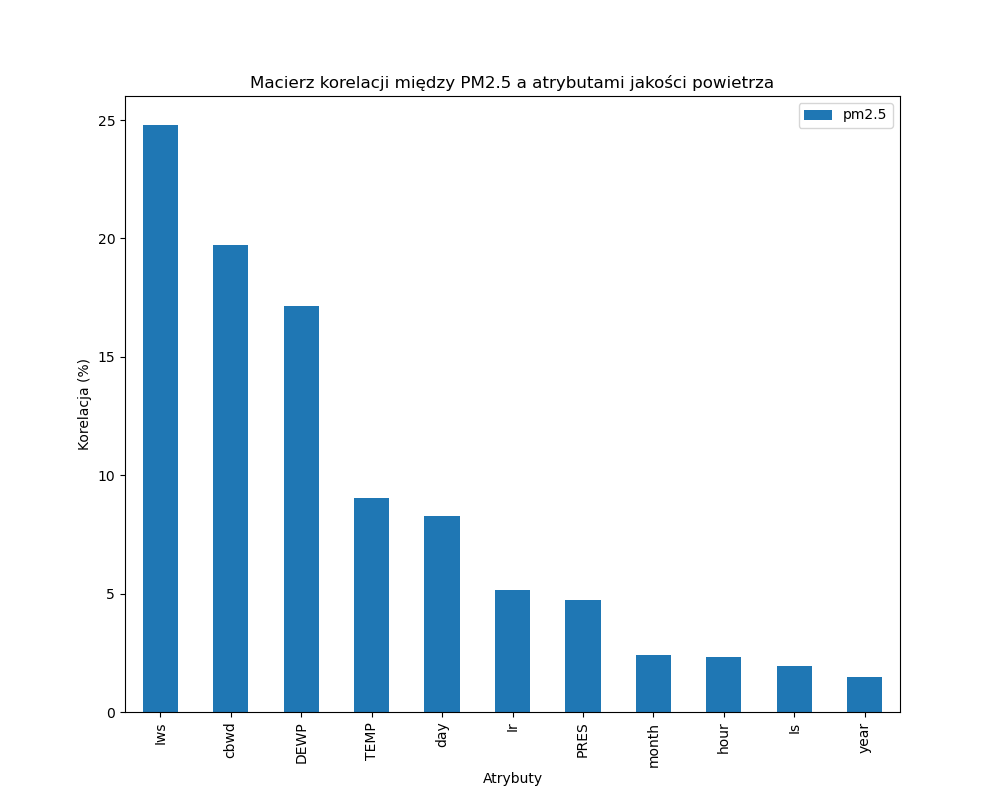
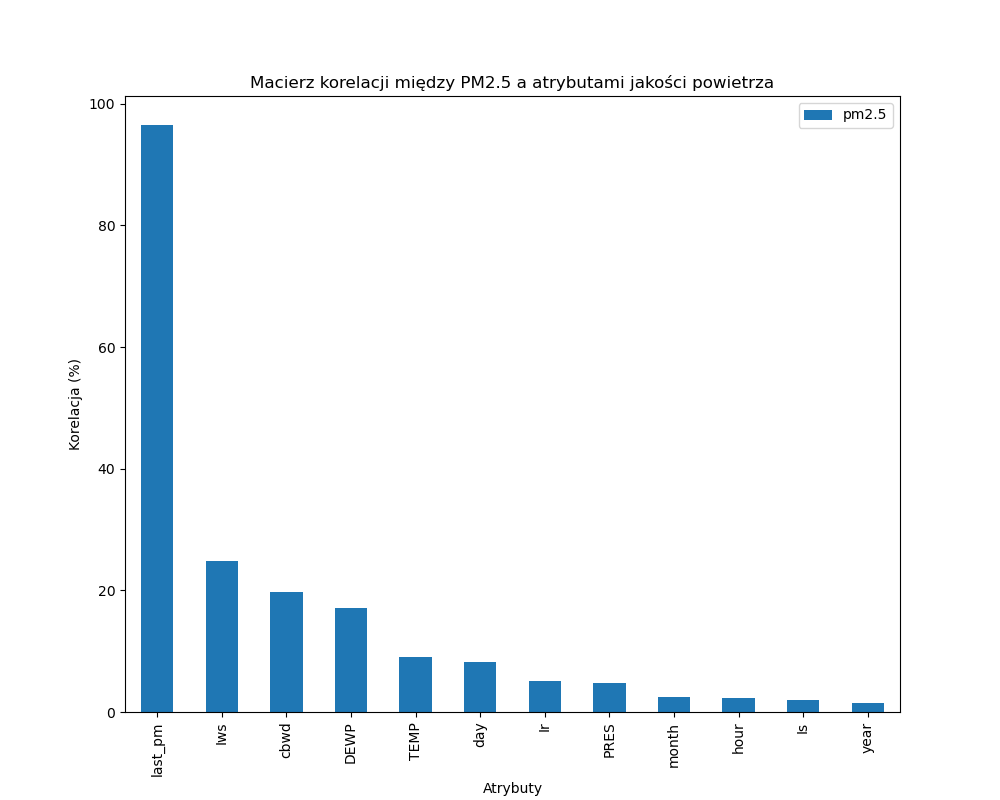
1

diff --git a/2023-06-01.py b/2023-06-01.py
@@ -105,7 +105,12 @@ data = data.dropna(subset=['pm2.5'])
     
     # Usunięcie pierwszej kolumny indeksującej 
 data = data.drop('No', axis=1)
-   
+
+    # dodanie kolumny PM2.5 z poprzedniego zapisu()
+last_pm = data['pm2.5'].shift(1)
+last_pm.iloc[0] = 0
+print(last_pm)
+data['last_pm'] = last_pm
 
 # Wykresy przedstawiające dane z pliku (po wyczyszczeniu)
 
@@ -120,14 +125,18 @@ print(f"data:\n",
 
 # Standaryzacja danych numerycznych 
 scaler = MinMaxScaler()
-col_stand = ['TEMP', 'DEWP', 'PRES', 'Iws', 'Is', 'Ir']
+col_stand = ['TEMP', 'DEWP', 'PRES', 'Iws', 'Is', 'Ir', 'last_pm']
 for i in data[col_stand]:
     data[i] = scaler.fit_transform(data[[i]])
 print(f"cleanded data:\n", 
       data.head())
 
+# Wykresy przedstawiające dane z pliku (po wyczyszczeniu)
+
+
+
   # Wykres 6: korelacje - macierz korelacji między atrybutami jakości powietrza
-corr_matrix = data[['TEMP', 'DEWP', 'PRES', 'Iws', 'Is', 'Ir']].corr()
+corr_matrix = data[['TEMP', 'DEWP', 'PRES', 'Iws', 'Is', 'Ir', 'last_pm']].corr()
 plt.figure(figsize=(10, 8))
 sns.heatmap(corr_matrix, annot=True, cmap='coolwarm')
 plt.title('Macierz korelacji między atrybutami jakości powietrza')
@@ -145,16 +154,16 @@ plt.savefig('oczyszczone/korelacje_PM25.png')
 
 #pytanie czy usuwamy  najmniej skorelowane cechy ? #todo
 
-# Wykluczanie niektórych kolumn z analizy (np. 'Unnamed: 0', 'Credit_Score')
+# Wykluczanie niektórych kolumn z analizy ()
 exclude_filter = ~data.columns.isin(['year','month','day','hour', 'Timestamp', 'Credit_Score'])
 
 # Przygotowanie danych wejściowych i wyjściowych
-X = data[['TEMP', 'DEWP', 'PRES', 'Iws', 'Is', 'Ir']]  # Przykładowe atrybuty jakości powietrza
+X = data[['TEMP', 'DEWP', 'PRES', 'Iws', 'Is', 'Ir', 'last_pm']]  # Przykładowe atrybuty jakości powietrza
 y = data['pm2.5']  # Poziom zanieczyszczenia PM2.5
-print(f"y:\n", 
-      y.head())
-print(f"X:\n", 
-      X.head())
+# print(f"y:\n", 
+#       y.head())
+# print(f"X:\n", 
+#       X.head())
 
 # Podział danych na zbiór treningowy i testowy
 X_train, X_test, y_train, y_test = train_test_split(X, y, test_size=0.2, random_state=42)
@@ -174,7 +183,7 @@ print(f"linear:\n",
 #       y_predict)
 
 # Regresja liniowa LASSO
-lasso = Lasso(alpha=1.0)
+lasso = Lasso(alpha=0.1)
 lasso.fit(X_train, y_train)
 
 lasso_score_train = lasso.score(X_train, y_train)
@@ -199,7 +208,7 @@ print(f"poly:\n",
       poly_score_train)
 
 # Regresja z wykorzystaniem k-NN 
-knn = KNeighborsRegressor()
+knn = KNeighborsRegressor(n_neighbors=30)
 knn.fit(X_train, y_train)
 
 knn_score_train = knn.score(X_train, y_train)
@@ -210,7 +219,7 @@ print(f"knn:\n",
       knn_score_train)
 
 # Regresja z wykorzystaniem drzewa decyzyjnego
-tree = DecisionTreeRegressor(max_depth=8)
+tree = DecisionTreeRegressor(max_depth=5)
 tree.fit(X_train, y_train)
 
 tree_score_train = tree.score(X_train, y_train)
